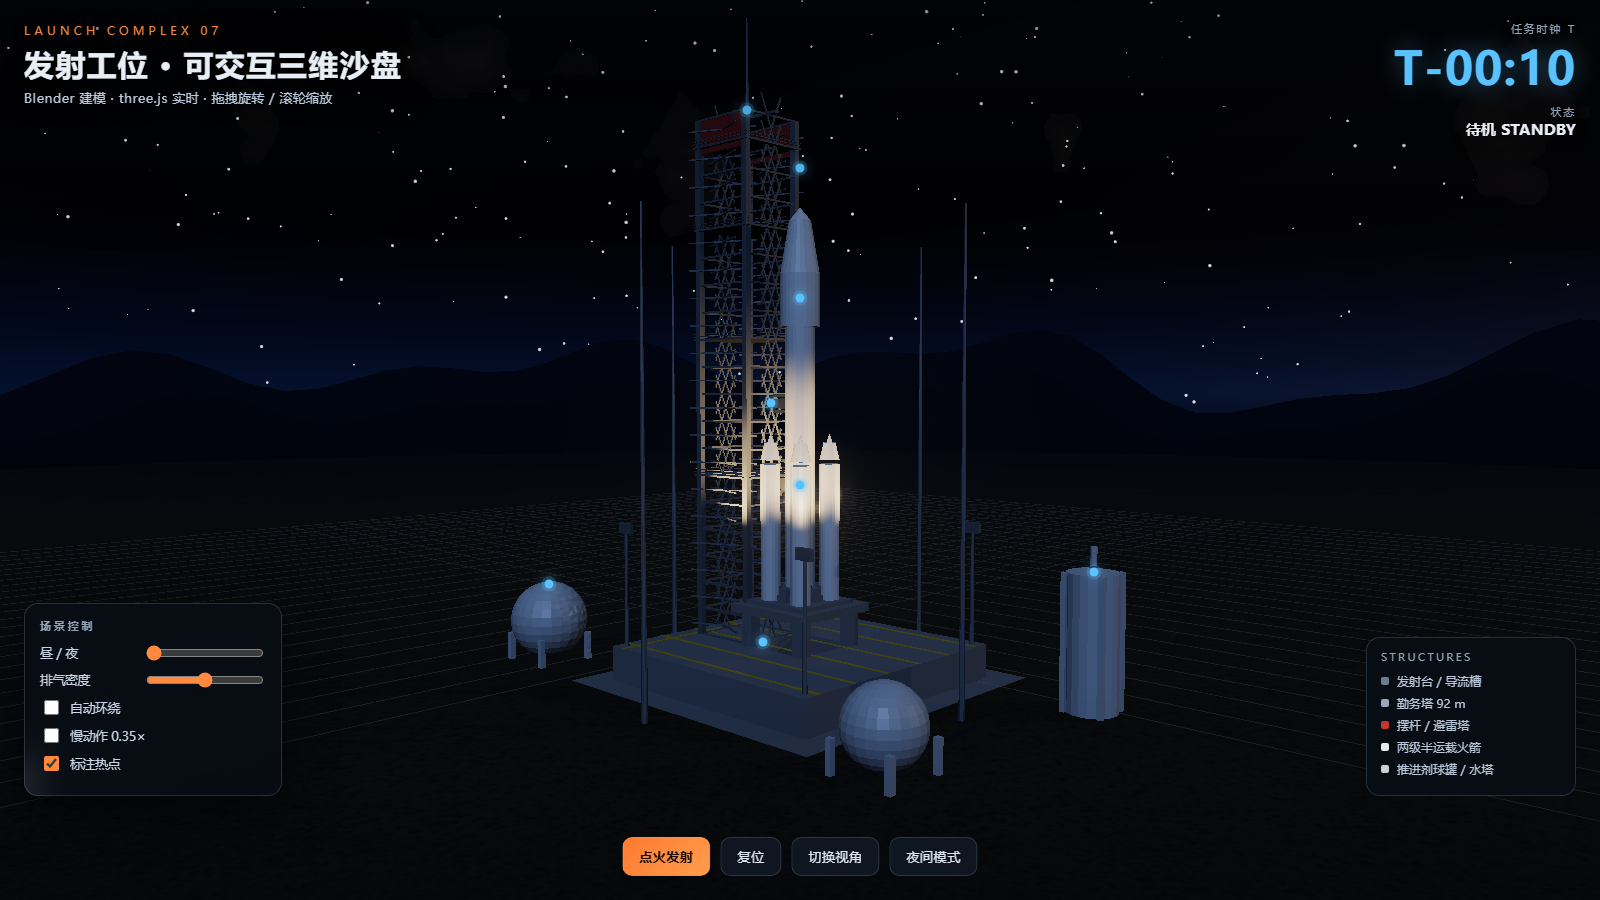
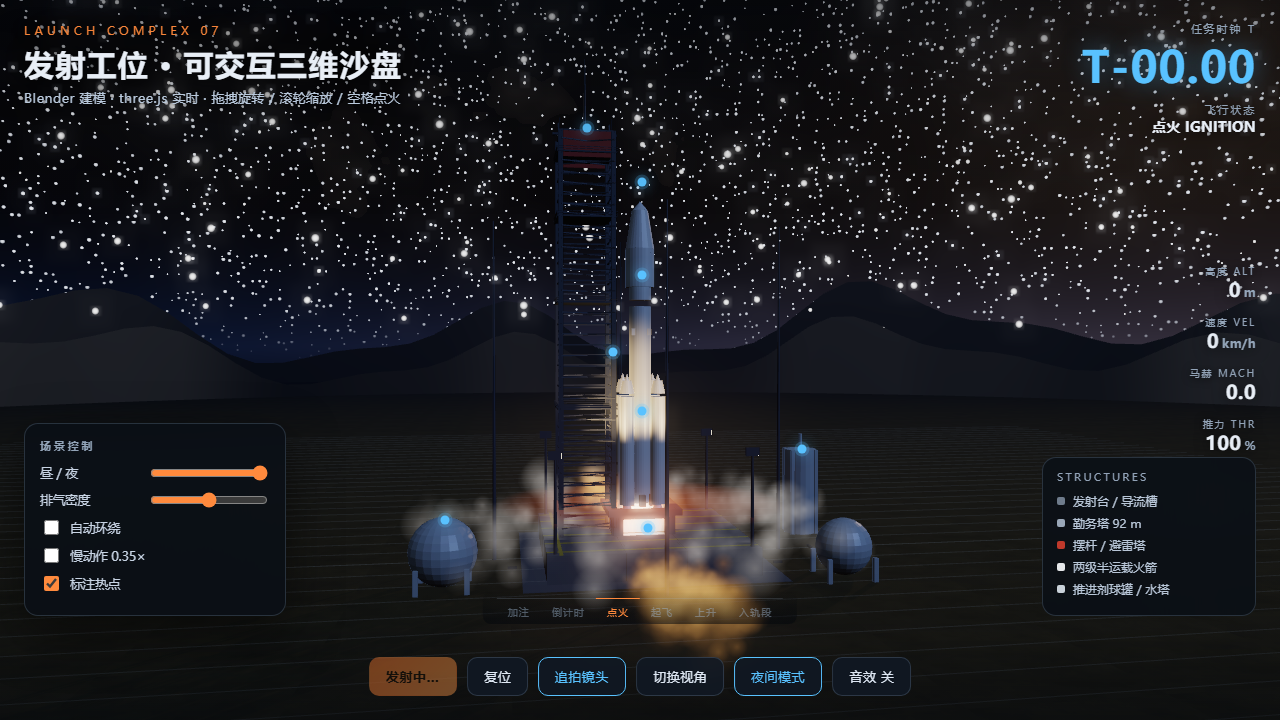
docs: 预览图换成第三轮成品，README 补太空段与尾焰 shader 技术要点

diff --git a/README.md b/README.md
@@ -69,6 +69,17 @@ preview_day.png / preview_night.png / preview_launch.png  预览图
 ## 技术要点
 
 - 天空为自定义 shader 球，片元内用 `normalize(vWorldPos - cameraPosition)` 求方向（顶点插值在球内会失真）
-- 尾焰三层锥（外橙 / 中亮橙 / 芯白）叠加 AdditiveBlending，配 UnrealBloomPass(0.52, 0.72, 0.70)
-- 烟雾为 1500 粒子 GPU Points，单 draw call；密度滑块实时改变发射率
+- 尾焰为自定义软边 shader 锥（沿轴 `pow(1-t,fall)` × 沿周 `uv.x` 轮廓柔化 × 三段颜色：喷口白芯 → 中段饱和橙 → 尾端暗红），
+  外/中/芯三层加色叠加，opacity 收敛在 0.15/0.19/0.30——7 个锥相加一旦过 1 就会被 ACES 拉成白柱
+- 烟雾为 GPU Points 粒子，单 draw call；密度滑块实时改变发射率。导流槽焰流带方向初速沿 Z 轴槽口外喷
 - 昼夜通过 uniform 插值 + 两张 PMREM 环境贴图切换 IBL
+
+### 太空段（飞出地球）
+
+- 地球半径 12000 m，球心 y = -12000；地平线俯角因此落在广角画面下半部，火箭飞出大气后仍能看到弧线
+- 大气壳不是"球壳边缘高光"，而是片元内按视线到地心的冲击参数算指数密度：
+  `hgt = |oc × rd| - R`，`dens = exp(-hgt/130) × smoothstep(-45, 0, hgt)`。
+  负值一侧归零（大气在地球背后，被地球挡住），轮廓处保留 45 km 渐变去填地球 alpha 渐隐露出的背景——否则弧线上会出现一圈黑缝
+- 地球轮廓用极窄 alpha 渐隐（`smoothstep(0, 0.014, dot(vd,n))`）；**不要**把轮廓混成亮蓝，那会画出一圈蓝色虚线
+- 城市灯光是全片唯一的高频项，地平线处一像素横扫几十公里会逐像素随机点亮成暖白斑点，必须乘 LOD 与掠射系数抑制
+- 球体细分 512 × 288：256 段时轮廓每段约 5 px，几何锯齿比任何着色器 AA 都粗
